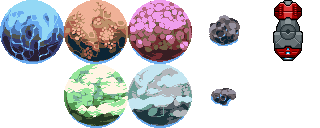
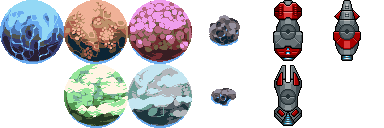
added different traders

diff --git a/core/game/player.py b/core/game/player.py
@@ -14,8 +14,7 @@ from .helper import deepcopy_nested_dict, get_conns
 from .sprite_sheet import SpriteSheet
 
 
-class Player(pygame.sprite.Sprite):
-
+class Player:
     def __init__(
         self,
         name: str,
@@ -25,8 +24,6 @@ class Player(pygame.sprite.Sprite):
         board: Board,
         resources: dict,
     ):
-        super().__init__()
-
         self.name = name
         self.num = num
         self.colour = colour
@@ -34,11 +31,13 @@ class Player(pygame.sprite.Sprite):
         self.board = board
         self.resources = deepcopy_nested_dict(resources)
 
+        self.board_graph = board.get_graph()
         self.pos = board.get_rand_non_empty_pos()
         self.rect = self.image.get_rect()
         self.rect.center = self.board.get_tile_centre_pos(self.pos)
 
-        self.board_graph = board.get_graph()
+        self.actions_per_turn = 2
+        self.actions_left = 2
 
         self.next = None
 
@@ -60,6 +59,9 @@ class Player(pygame.sprite.Sprite):
     def get_resources(self) -> dict:
         return self.resources
 
+    def reset_actions_left(self) -> None:
+        self.actions_left = self.actions_per_turn
+
     def get_ship_image_file_location(self) -> str:
         return random.choice(os.listdir("./assets/images/tiny-spaceships"))
 
@@ -68,23 +70,19 @@ class Player(pygame.sprite.Sprite):
         Moves the player from one non-empty tile to another non-empty tile
         connected to it.
 
-        Returns whether the move was valid.
+        Returns the number of moves left for the player that turn.
         """
         if new_pos in get_conns(self.board_graph, last_pos):
+            self.actions_left -= 1
             self.pos = new_pos
             self.rect.center = self.board.get_tile_centre_pos(self.pos)
 
-            new_pos_planet_type = self.board.get_type_from_board_pos(new_pos)
-            new_pos_resource_type = (
-                self.board.get_resource_type_from_planet_type(
-                    new_pos_planet_type
-                )
-            )
-
-            if new_pos_resource_type:
+            if new_pos_resource_type := self.board.get_resource_type_from_planet_type(
+                self.board.get_type_from_board_pos(new_pos)
+            ):
                 self.resources[new_pos_resource_type]["amount"] += 1
-            return True
-        return False
+
+            return self.actions_left
 
     def render_to(self, window: pygame.display) -> None:
         window.blit(self.image, self.rect)
@@ -119,8 +117,10 @@ class PlayerList:
 
     def cycle_curr(self, num_turns: int = 1) -> Player:
         for _ in range(num_turns):
-            self.curr = self.curr.next
             self.turns_taken += 1
+
+            self.curr = self.curr.next
+            self.curr.reset_actions_left()
         return self.curr
 
     def add(self, name: str, colour: tuple[int, int, int]) -> None:

diff --git a/core/main.py b/core/main.py
@@ -59,7 +59,9 @@ class MainRun:
                 "planet_uranium": 3,
                 "asteroid": 2,
                 "asteroid_small": 2,
-                "trading_station": 2,
+                "trader_alpha": 1,
+                "trader_beta": 1,
+                "trader_gamma": 1,
                 "empty": float("inf"),
             },
         )
@@ -123,11 +125,11 @@ class MainRun:
                         mouse_board_coord[0] is not None
                         and mouse_board_coord[1] is not None
                     ):
-                        valid_move = curr_player.move(
+                        actions_left = curr_player.move(
                             mouse_board_coord, curr_player_pos
                         )
 
-                        if valid_move:
+                        if actions_left == 0:
                             self.players.cycle_curr()
                             self.total_turns += 1
                     elif action_idx := self.ui_actions.check_for_action(

diff --git a/core/asset_loader.py b/core/asset_loader.py
@@ -25,7 +25,9 @@ def load_assets():
             "planet_helium": (2, 1),
             "asteroid": (3, 0),
             "asteroid_small": (3, 1),
-            "trading_station": (4, 0),
+            "trader_alpha": (4, 0),
+            "trader_beta": (4, 1),
+            "trader_gamma": (5, 0),
         },
     )
 
